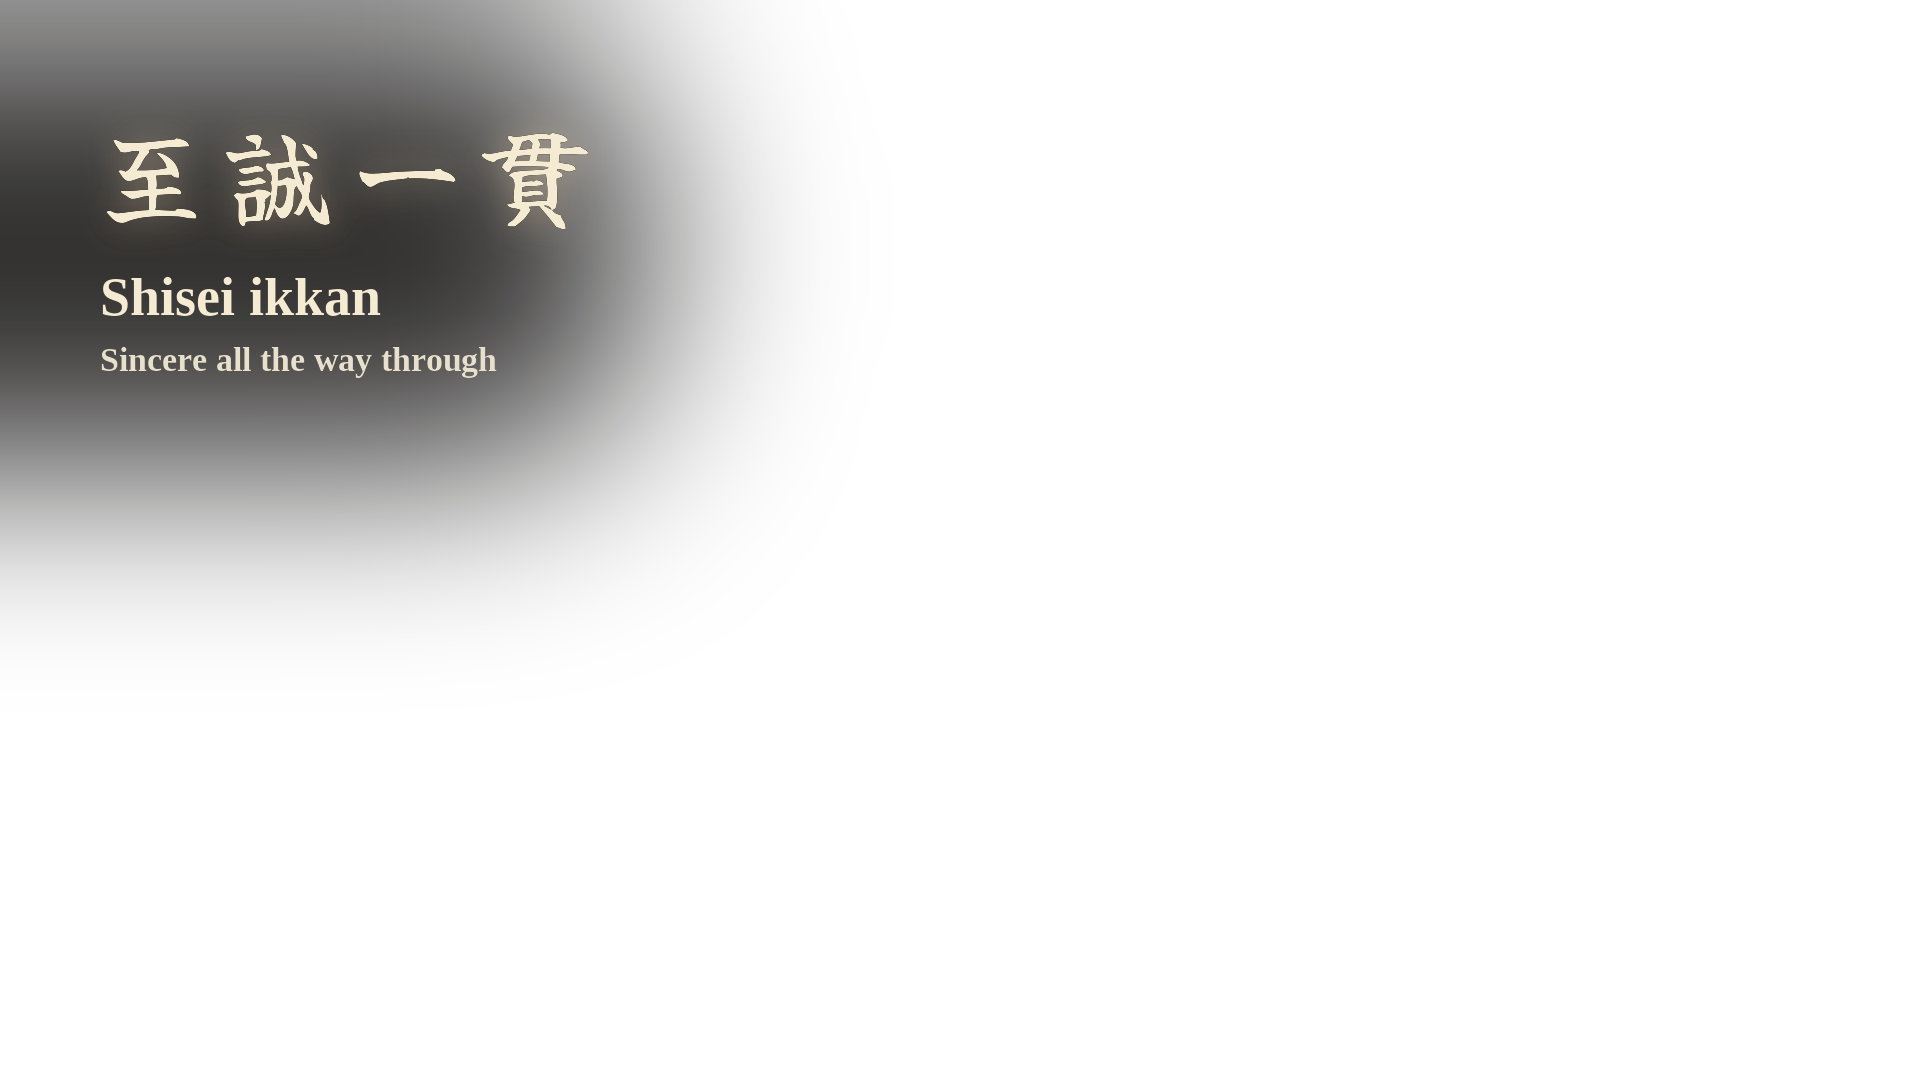
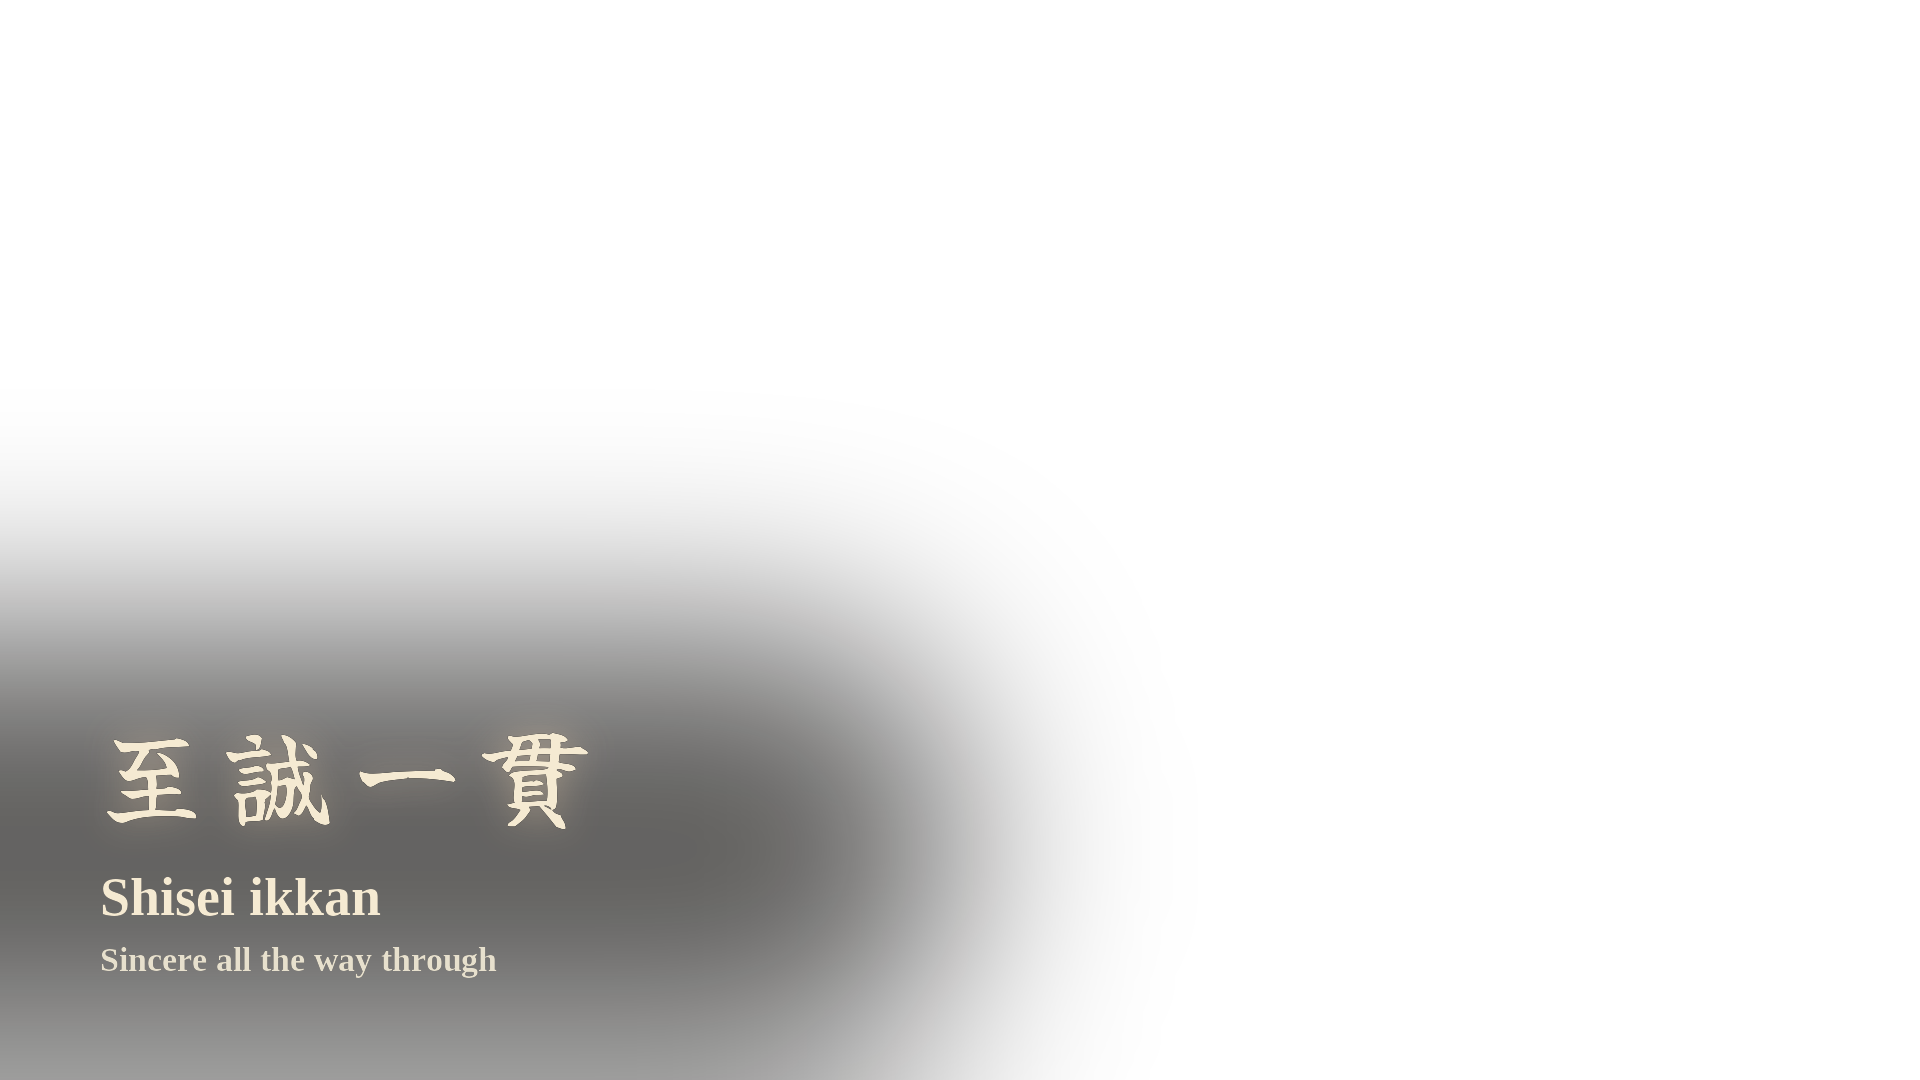
StillWave BUSHIDO: switch to the tiger-mural frame; overlay and thumbnail rebuilt
Claude-Session: https://claude.ai/code/session_014rUxCAgr4C7iAmMHbP4fFt

diff --git a/stillwave/assets/bushido-compose-thumb-v2.py b/stillwave/assets/bushido-compose-thumb-v2.py
@@ -15,15 +15,15 @@ W, H = 1280, 720
 WHITE, CREAM = (250, 247, 240, 255), (232, 222, 200, 255)
 
 img = Image.open(SRC).convert("RGB").resize((W, H), Image.LANCZOS)
-img = ImageEnhance.Contrast(img).enhance(1.22)
-img = ImageEnhance.Color(img).enhance(1.3)
+img = ImageEnhance.Contrast(img).enhance(1.12)
+img = ImageEnhance.Color(img).enhance(1.15)
 r, g, b = img.split()
 img = Image.merge("RGB", (r.point(lambda v: min(255, int(v * 1.05))), g, b.point(lambda v: int(v * 0.93))))
 bg = img.convert("RGBA")
 
 # darken the whole left third so white type reads
 sh = Image.new("RGBA", (W, H), (0, 0, 0, 0))
-ImageDraw.Draw(sh).rectangle((-100, -100, 470, H + 100), fill=(5, 4, 3, 200))
+ImageDraw.Draw(sh).rectangle((-100, -100, 470, H + 100), fill=(5, 4, 3, 120))
 bg.alpha_composite(sh.filter(ImageFilter.GaussianBlur(70)))
 d = ImageDraw.Draw(bg)
 CX = 215

diff --git a/stillwave/scripts/bushido-2h.md b/stillwave/scripts/bushido-2h.md
@@ -63,10 +63,21 @@ Feed the clean hero (no text). Camera completely locked: no pan, no zoom, no dol
 
 **🇺🇦 RU:** Подставка с мечами слева внизу, поэтому оверлей слева вверху на сёдзи, с плотной подложкой, которая не заходит на солнце. Превью: контраст и тепло подняты только на превью, BUSHIDO белым слева вверху, 武士道 крупнее, сверху вниз на левой сёдзи (по просьбе пользователя).
 
+## §5b — Final frame: armored samurai before the tiger mural (2026-11-13)
+
+The user generated the §3b prompt. It replaces the shoji frame (kept as `assets/bushido-2h-source-v1-shoji.jpg`): `assets/bushido-2h-source.jpg`, 1984x1116. Huge tiger, red armor cords, gold light beam, dark empty left third. Two swords on the floor, both sheathed. The standard lower-left overlay sits on the dark floor and wall (brightness 18–24), clear of the swords. Thumbnail: `bushido-2h-thumb-v2.jpg` (white brush 武士道, serif BUSHIDO, rule, JAPANESE ZEN MUSIC).
+
+### Flow loop for this frame
+```
+Feed the clean hero (no text). Camera completely locked: no pan, no zoom, no dolly. Keep the armored samurai, his helmet, the two swords on the floor, the hall and the tiger mural exactly as they are, as a frozen photograph. The samurai and the tiger do not move. Animate ONLY: (1) the thin ribbon of incense smoke rising and curling slowly; (2) fine dust drifting very slowly inside the beam of light from the high window; (3) the beam's brightness breathing almost imperceptibly; (4) the faintest shimmer of light on the polished floor. Everything is slow and calm. Perfectly seamless 8-second loop, last frame matches first frame exactly.
+```
+
+**🇺🇦 RU:** Новый кадр (самурай в доспехах перед огромным тигром) заменил кадр с сёдзи. Оверлей стоит в стандартном месте слева внизу на тёмном полу, мечей не касается. Превью — v2 на новом кадре.
+
 ## §6a — Wisdom Overlay
 
 - **至誠一貫** / *Shisei ikkan* / Sincere all the way through
-- File: `assets/bushido-shisei-ikkan-overlay.png` (brush font, upper-left on the chosen frame — see §5).
+- File: `assets/bushido-shisei-ikkan-overlay.png` (brush font, standard lower-left on the final tiger frame — see §5b).
 
 **🇺🇦 RU:** 至誠一貫 — «искренность от начала до конца». Прямо о сути бусидо (честность и постоянство), но само слово 武士道 не называет. На канале не использовалось.
 
